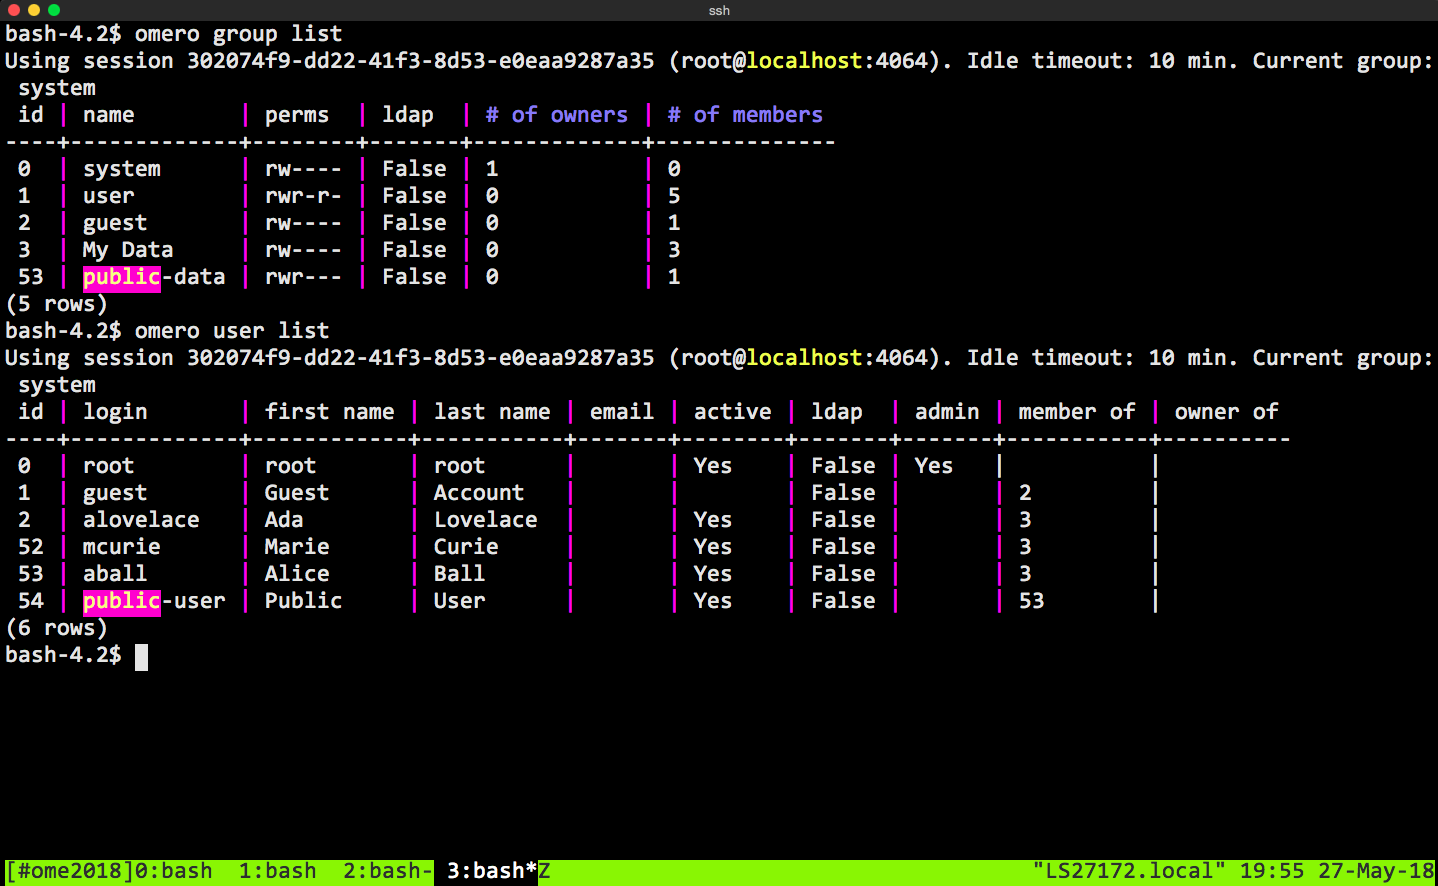
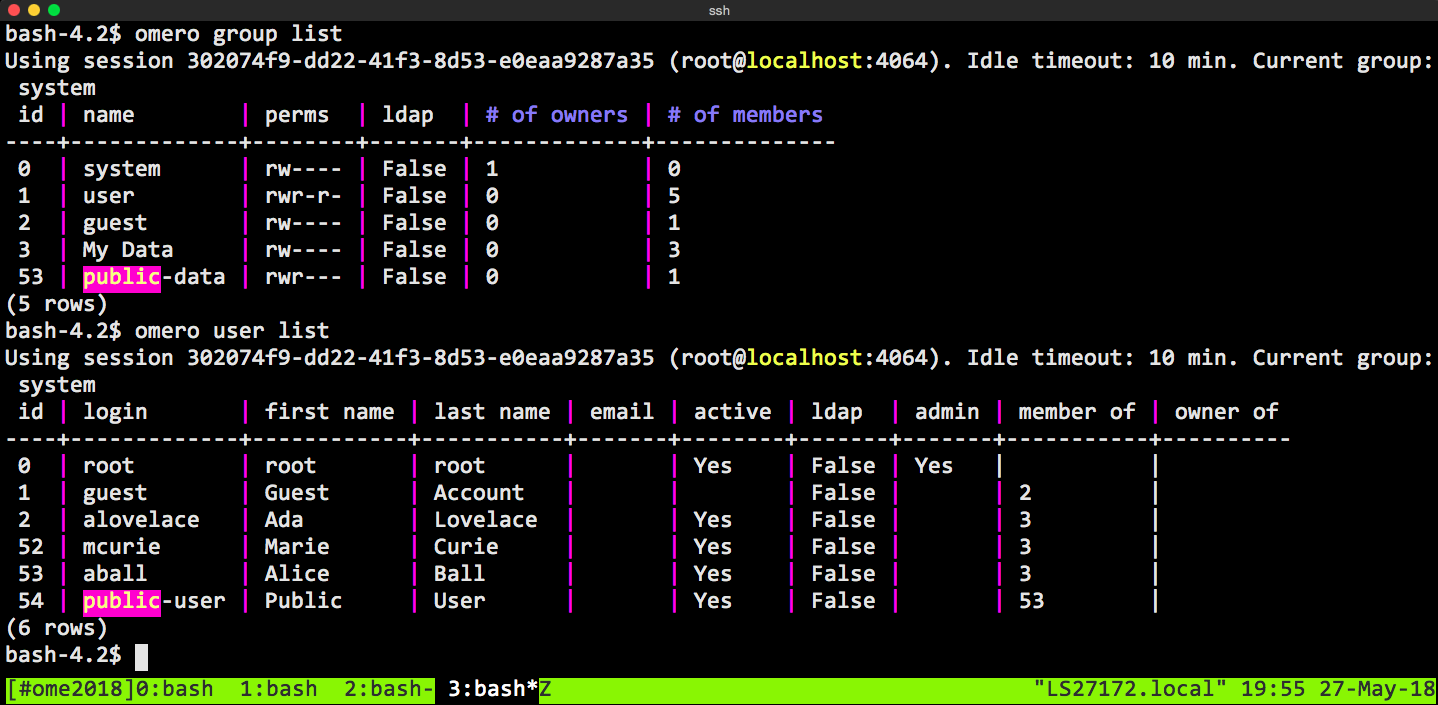
Fixed size of screenshots via inline css

diff --git a/2018/Users-Meeting/Workshops/OMERO.ops/index.html b/2018/Users-Meeting/Workshops/OMERO.ops/index.html
@@ -190,38 +190,43 @@
                 <section data-background="images/sa-tech.png">
                 </section>
 
-                <section>
+                <section style="width:90vw;left:-45vw;">
                     <img src="images/parse-logs-email.png">
                     <p><a href="http://localhost">🜽  shell scripts (gitlab incubator)</a></p>
                 </section>
 
                 <!-- watch for sessions / restart -->
-                <section>
+                <section style="width:90vw;left:-45vw;">
                     <img src="images/terminal-sessions-who-for-restart.png" >
                     <p><a href="">🜽  shell scripts (gitlab incubator)</a></p>
                 </section>
 
                 <!-- omero sessions who  -->
-                <section>
+                <section style="width:90vw;left:-45vw;">
                     <img src="images/terminal-sessions-who.png" >
                     <p><a href="https://docs.openmicroscopy.org/latest/omero/users/cli/sessions.html">🜽 OMERO cli docs</a></p>
                 </section>
 
-                <section>
+                <section style="width:90vw;left:-45vw;">
                     <img src="images/terminal-group-list-user-list.png" >
                     <p><a href="http://localhost">🜽 public user docs</a></p>
                 </section>
        
 
-                <!-- full screen cmk 1 -->
+                <!-- full screen cmk: all hosts  -->
                 <section data-background="images/cmk-all-hosts.png" data-background-size="contain">
                 </section>
 
-                <!-- full screen cmk -->
+                <!-- background of cmk -->
                 <section data-background="images/cmk_full_screen.png" data-background-size="contain">
                 </section>
 
-                <!-- full screen cmk -->
+                <!-- background of cmk -->
+                <section data-background="images/cmk_full_screen.png" data-background-size="contain">
+                    <img src="images/cmk-dumpall-alert-email.png"/>
+                </section>
+
+                <!-- background of cmk -->
                 <section data-background="images/cmk_full_screen.png" data-background-size="contain">
                     <img src="images/cmk-slack-notify.png"/>
                 </section>
@@ -240,7 +245,6 @@
                 </section>
 
                 <section data-background="images/operations-team-crop.jpg" data-background-position="right" data-background-size="contain">
-                  <img src="images/ebi-topology.png" style="width:45%; float:right;" class="fragment" />
                   <div style="width:50%;">
                     <h2 style="line-height:normal;">Why Prometheus and Grafana instead of Check_MK?</h2>
                     <ul>
